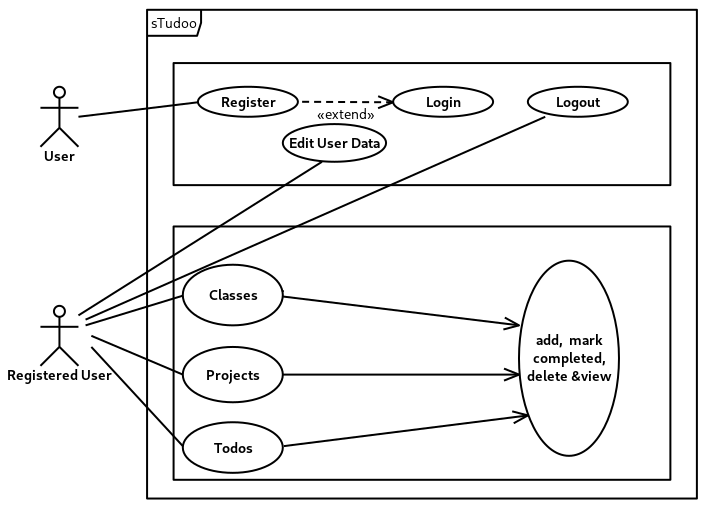
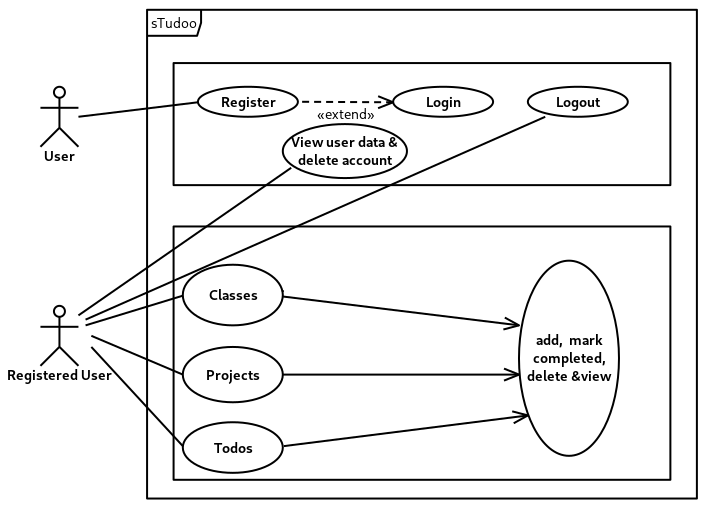
Update App Behavior

Changed region(s): [[0.1245, 0.2358, 0.5912, 0.6189]]

diff --git a/docs/technical-docs/app-behavior.md b/docs/technical-docs/app-behavior.md
@@ -10,7 +10,6 @@ Jana
 Andy
 {: .label }
 
-
 # App behavior
 
 <details open markdown="block">
@@ -22,11 +21,10 @@ Andy
 {:toc}
 </details>
 
- 
 - [App behavior](#app-behavior)
+  - [sTudoo's Use Case](#studoos-use-case)
+  - [Overview And Explenation Of The Programmed Routes](#overview-and-explenation-of-the-programmed-routes)
     - [**Route:** `/index`](#route-index)
-    - [**Route:** `/imprint`](#route-imprint)
-    - [**Route:** `/privacy`](#route-privacy)
     - [**Route:** `/sign_up`](#route-sign_up)
     - [**Route:** `/signed_up`](#route-signed_up)
     - [**Route:** `/login`](#route-login)
@@ -42,7 +40,18 @@ Andy
     - [**Route:** `/delete_entry`](#route-delete_entry)
 </details>
 
----
+
+## sTudoo's Use Case
+
+To get a big picture of sTudoo's functionality let us take a look at the use case diagram.
+
+![Use case diagram](../assets/diagrams/Studoo_Features.png)
+
+To use the full functionality it is necessary for a user to register an login. After the registration and the login the user is able to add, delete, mark as completed and view the **classes, projects and todos**. Furthermore the user is able to view his account informations and delete the account.
+
+## Overview And Explenation Of The Programmed Routes
+
+Next we'll take a look ath the routes, their methods, purpuses and outputs.
 
 ### **Route:** `/index`
 
@@ -53,27 +62,6 @@ Andy
 **Sample output:**
 
 ![get_list_todos() sample](../assets/images/index.png)
-
----
-
-### **Route:** `/imprint`
-
-**Methods:** `GET`
-
-**Purpose:** Display the `imprint.html` template with the title set to "Imprint".
-
-**Sample output:**
-
----
-
-### **Route:** `/privacy`
-
-**Methods:** `GET`
-
-**Purpose:** Display the `privacy.html` template with the title set to "Privacy".
-
-**Sample output:**
-
 
 ---
 
@@ -196,7 +184,6 @@ After handling the POST requests, the route retrieves the list of classes and th
 ![get_list_todos() sample](../assets/images/classes_incomplete.PNG) 
 
 ---
-
 
 ### **Route:** `/projects`
 
